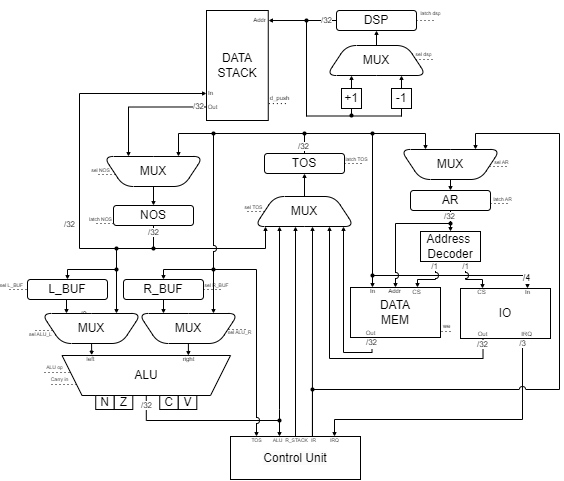
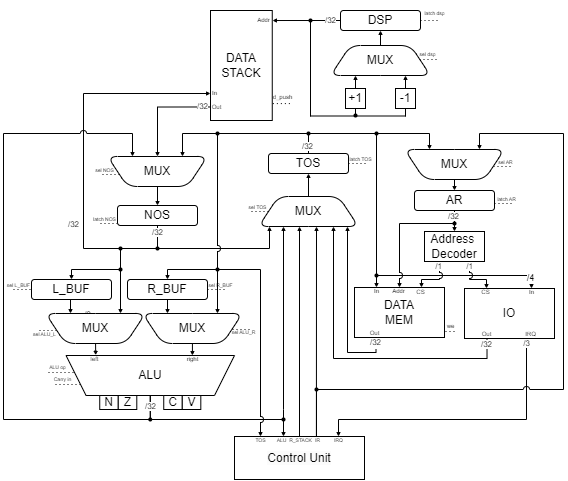
Мелкие исправления

diff --git a/app/simulation/control_unit.py b/app/simulation/control_unit.py
@@ -408,21 +408,23 @@ class ControlUnit:
                 self.advance_step()
             case 2:
                 self.data_path.pop()
-                self.data_path.stack.nos = self.data_path.perform_alu(
+                self.data_path.perform_alu(
                     opcode=Opcode.ADD,
                     left=self.data_path.stack.nos,
                     right=self._alu_r_buff,
                 )
+                self.data_path.latch_nos(NosMux.ALU)
                 self.advance_step()
             case 3:
                 carry_in = int(self.data_path.flags.has(Flag.C))
                 rlo = self.data_path.stack.nos
-                self.data_path.stack.tos = self.data_path.perform_alu(
+                self.data_path.perform_alu(
                     opcode=Opcode.ADD,
                     left=self.data_path.stack.tos,
                     right=self._alu_l_buff,
                     carry_in=carry_in,
                 )
+                self.data_path.latch_tos(TosMux.ALU)
                 if rlo != 0:
                     self.data_path.flags = self.data_path.flags & ~Flag.Z
                 self.complete_instruction()
@@ -443,21 +445,23 @@ class ControlUnit:
                 self.advance_step()
             case 2:
                 self.data_path.pop()
-                self.data_path.stack.nos = self.data_path.perform_alu(
+                self.data_path.perform_alu(
                     opcode=Opcode.SUB,
                     left=self.data_path.stack.nos,
                     right=self._alu_r_buff,
                 )
+                self.data_path.latch_nos(NosMux.ALU)
                 self.advance_step()
             case 3:
                 borrow = int(self.data_path.flags.has(Flag.C))
                 rlo = self.data_path.stack.nos
-                self.data_path.stack.tos = self.data_path.perform_alu(
+                self.data_path.perform_alu(
                     opcode=Opcode.SUB,
                     left=self.data_path.stack.tos,
                     right=self._alu_l_buff,
                     carry_in=-borrow,
                 )
+                self.data_path.latch_tos(TosMux.ALU)
                 if rlo != 0:
                     self.data_path.flags = self.data_path.flags & ~Flag.Z
                 self.complete_instruction()

diff --git a/app/simulation/data_path.py b/app/simulation/data_path.py
@@ -87,6 +87,8 @@ class DataPath:
                 value = self.stack.tos
             case NosMux.D_STACK:
                 value = self.stack.read()
+            case NosMux.ALU:
+                value = self.alu_out
         self.stack.nos = value
 
     def push(self, mux: TosMux) -> None:

diff --git a/app/simulation/mux.py b/app/simulation/mux.py
@@ -30,6 +30,7 @@ class TosMux(IntEnum):
 
 class NosMux(IntEnum):
     TOS = auto()
+    ALU = auto()
     D_STACK = auto()
 
 